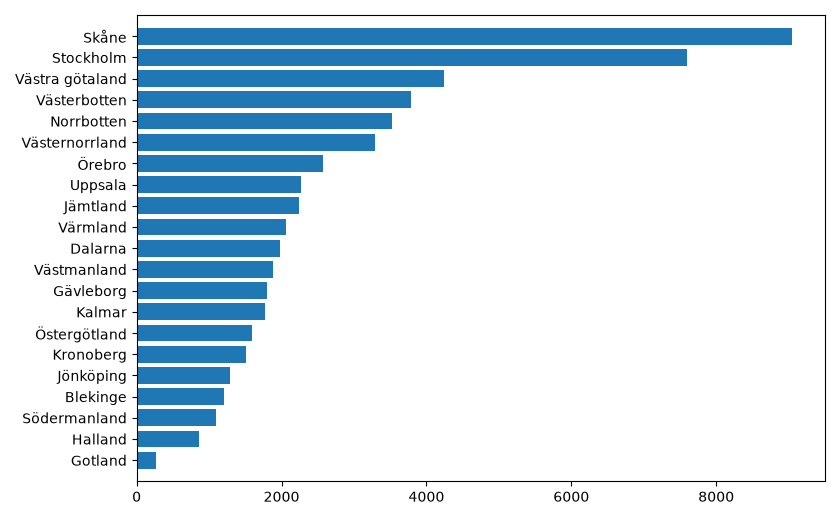
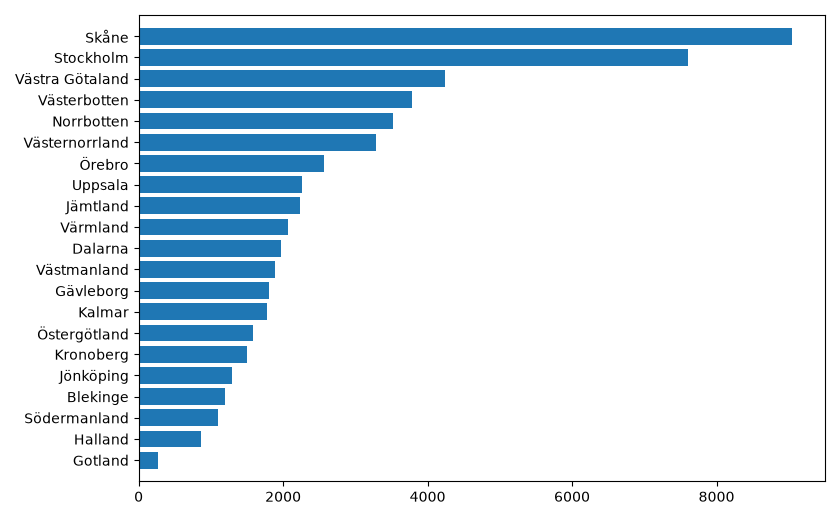
change county back to title case

diff --git a/src/crime_incident_forecasting/preprocessing.py b/src/crime_incident_forecasting/preprocessing.py
@@ -29,7 +29,7 @@ def map_label(
 def map_region(municipality: list[str]) -> list[str]:
     regions = get_regions()
     to_county = {
-        str.lower(k): str.capitalize(v)
+        str.lower(k): str.title(v)
         for k, v in zip(regions["Municipality"], regions["County"])
     }
     out = []
@@ -39,6 +39,6 @@ def map_region(municipality: list[str]) -> list[str]:
             for county in regions["County"]:
                 county = str.lower(county)
                 if county in name:
-                    to_county[name] = str.capitalize(county)
+                    to_county[name] = str.title(county)
         out.append(to_county[name])
     return out
